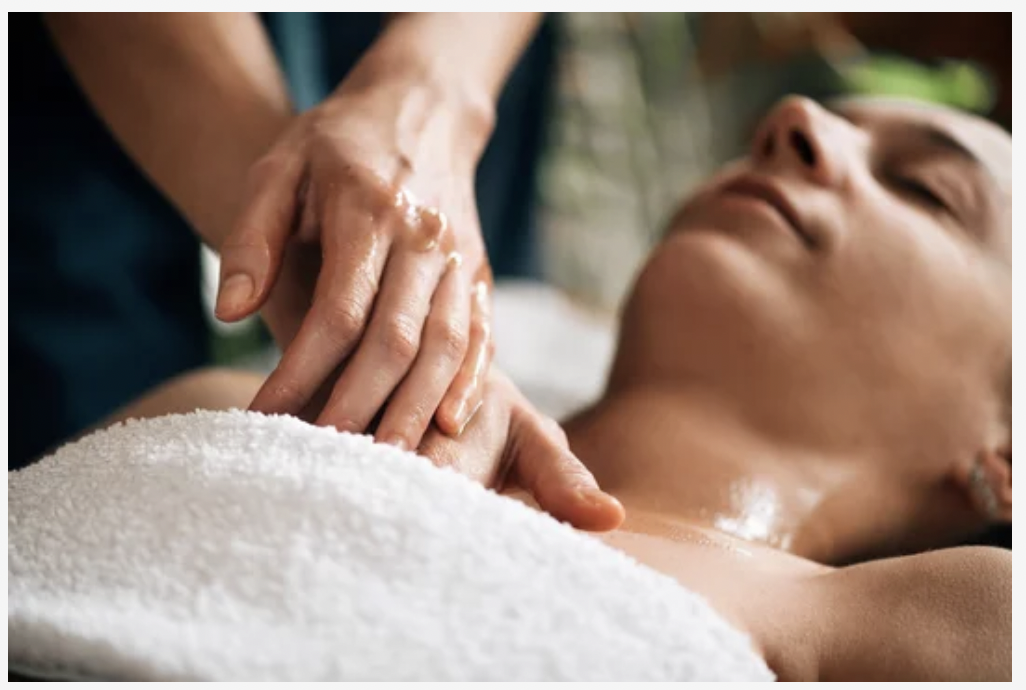
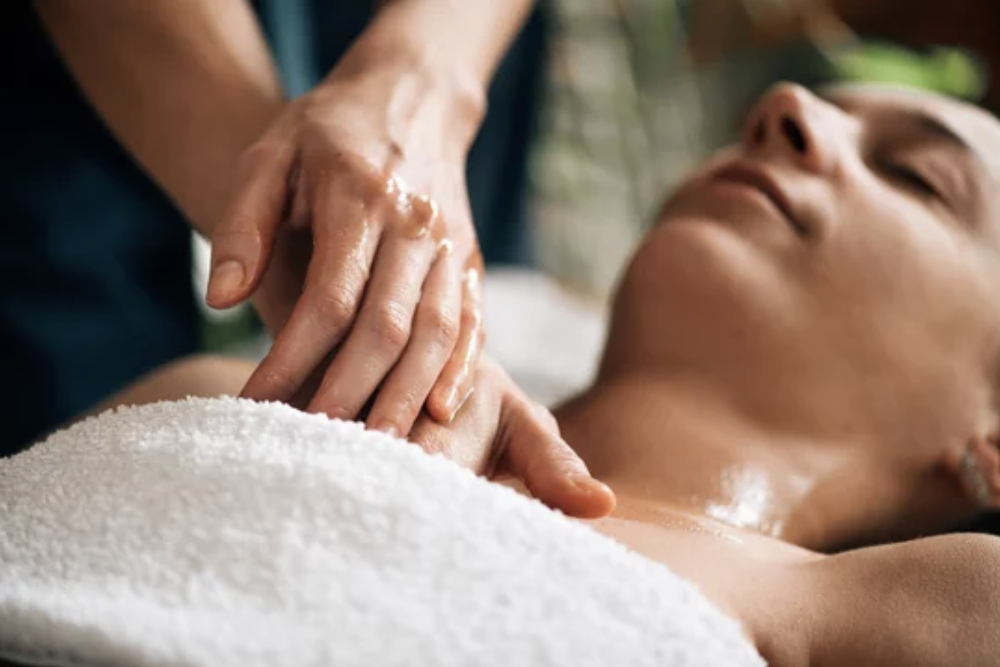
change pictures on about page

diff --git a/src/Features/about/BenefitsCard.jsx b/src/Features/about/BenefitsCard.jsx
@@ -10,7 +10,7 @@ function BenefitsCard() {
   return (
     <FeatureCard
       headline="Benefits from Ayurveda Massage"
-      image="/massage-jumbo.jpg"
+      image="/chest-massage.png"
       alt="Large massage picture"
     >
       <p className="w-11/12 py-2 md:py-5 text-gray-700">

diff --git a/src/Features/about/ApproachCard.jsx b/src/Features/about/ApproachCard.jsx
@@ -4,7 +4,7 @@ function ApproachCard() {
   return (
     <FeatureCard
       headline="My Approach to Ayurvedic Body Treatment"
-      image="/chest-massage.png"
+      image="/3-oils.png"
       alt="Large massage picture"
       reverse={true}
     >
